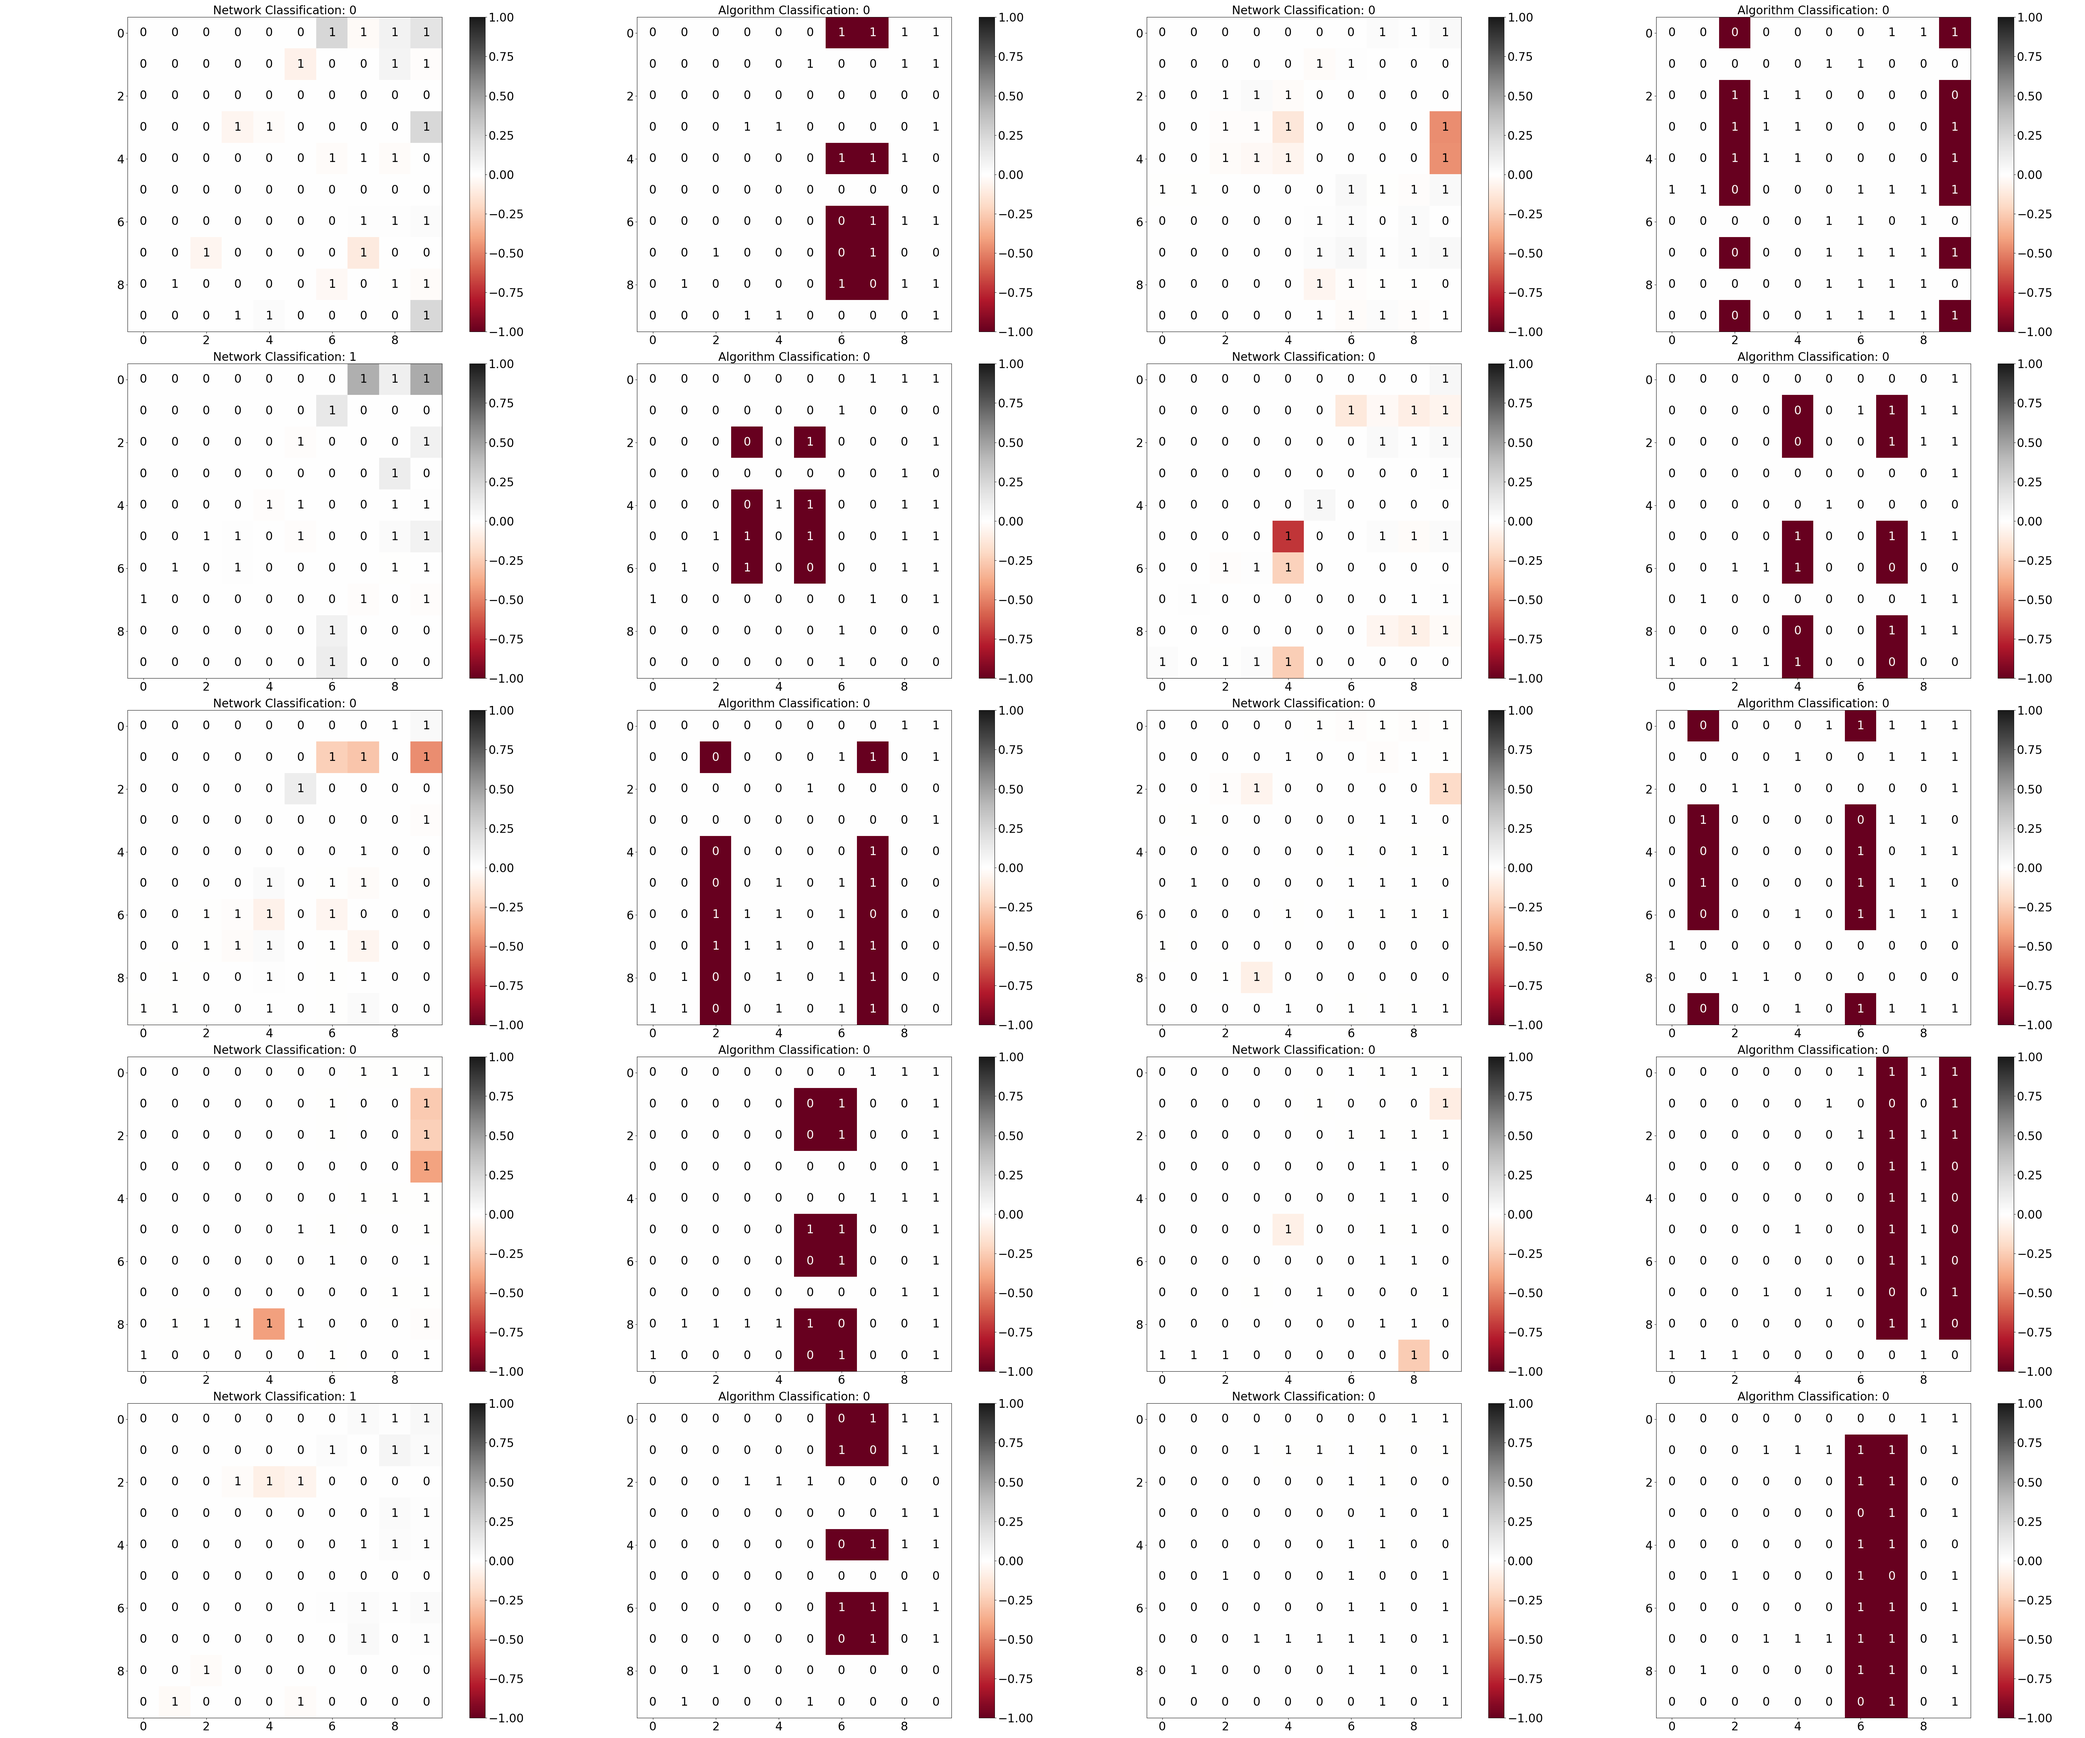
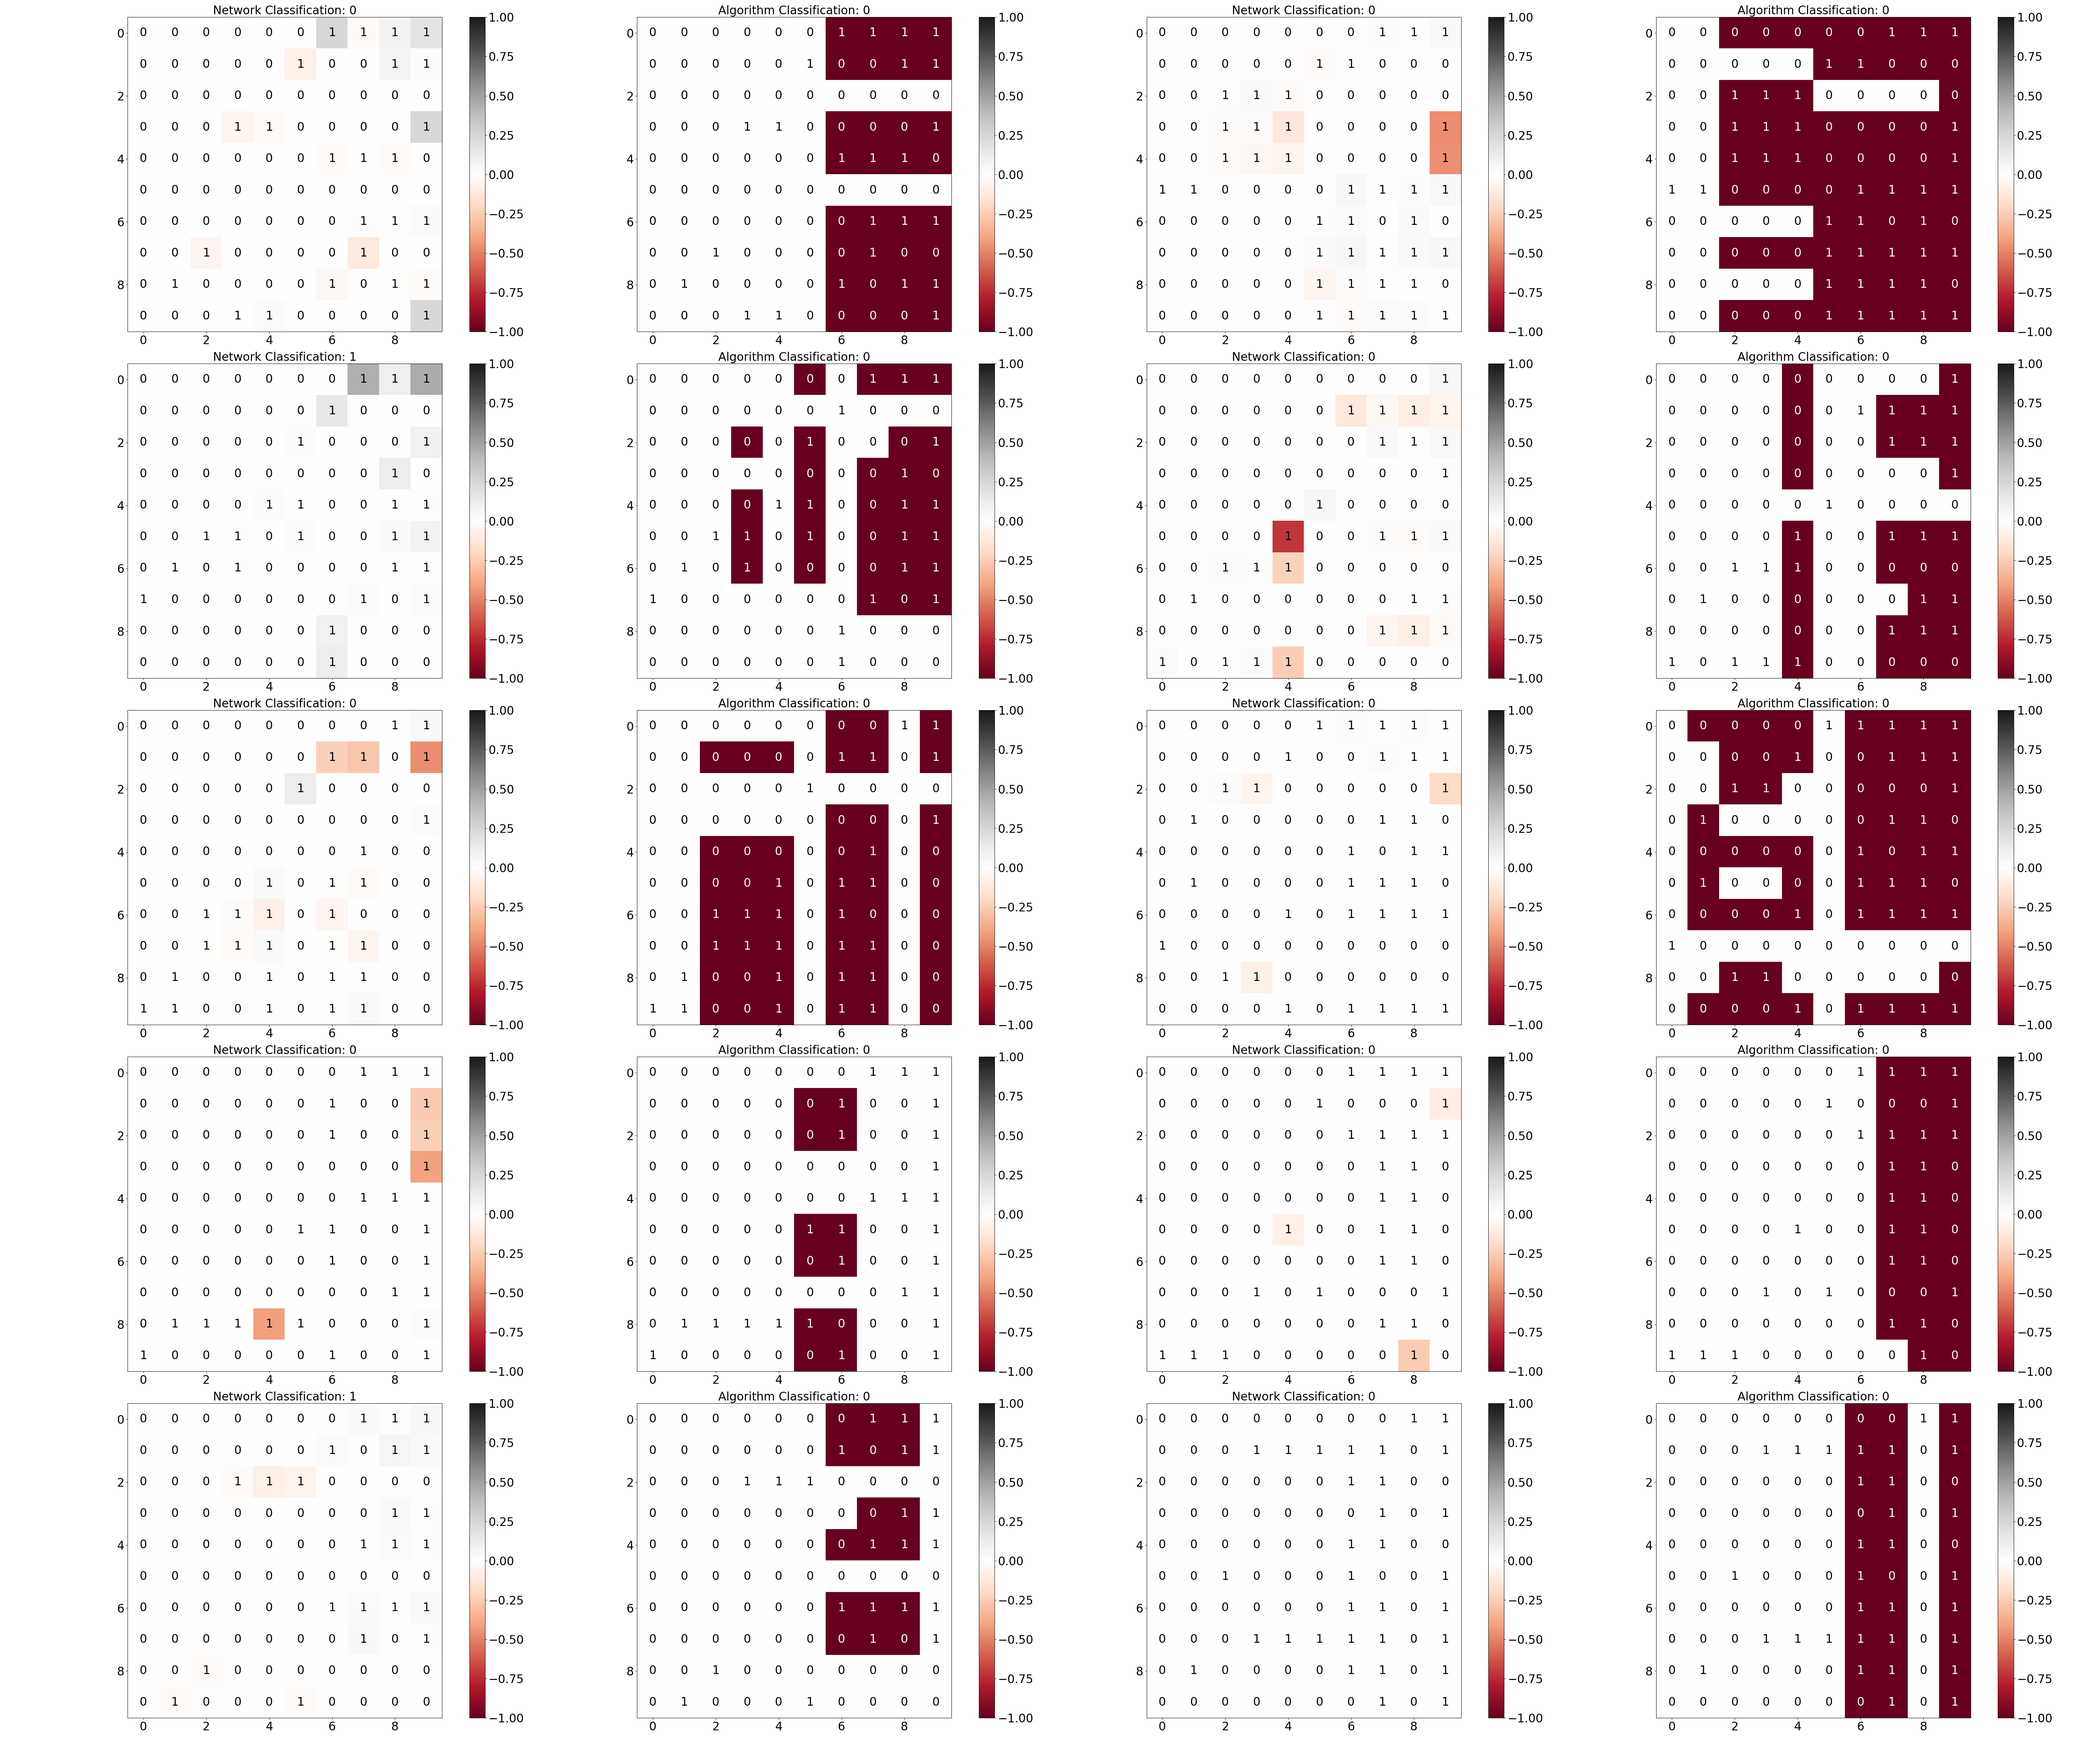
better heatmaps

diff --git a/netz/explainability.py b/netz/explainability.py
@@ -6,6 +6,8 @@ from captum.attr import Occlusion
 import matplotlib.pyplot as plt
 
 def check_inf_sites_arg(m):
+  erg_col = list()
+  erg_row = list()
   for i in range(np.shape(m)[1]):
     for j in range(i+1, np.shape(m)[1]):
       col1 = m[:,i]
@@ -16,12 +18,14 @@ def check_inf_sites_arg(m):
       found_diff = ((len(list(set(indices1) - set(indices2))) != 0) & (len(list(set(indices2) - set(indices1))) != 0))
       found_same = (len(list(set(indices1) & set(indices2))) != 0)
 
-      if found_diff & found_same: return [i, j], (list(set(indices1) - set(indices2)) + list(set(indices2) - set(indices1)) + list(set(indices1) & set(indices2)))
-  return list(), list()
+      if found_diff & found_same: 
+        erg_col.append([i, j])
+        erg_row.append(list(set(indices1) - set(indices2)) + list(set(indices2) - set(indices1)) + list(set(indices1) & set(indices2)))
+  return erg_col, erg_row
 
 netzfc = torch.load('saved_fc_netz.py', map_location=torch.device('cpu'))
 #data = read_data_tens("../data/test_fin_sorted.txt")
-data = read_data_tens("../data/noise/sorted/test_inf_noise_15_sorted.txt")
+data = read_data_tens("../data/noise/sorted/test_fin_noise_15_sorted.txt")
 netzfc.eval()
 #ig = IntegratedGradients(netzfc)
 occ = Occlusion(netzfc)
@@ -31,15 +35,16 @@ class_alg = []
 alg = []
 i = 0
 while i < 10:
-  mat = data[i].unsqueeze(0)
+  mat = data[i+10].unsqueeze(0)
   class_net.append(int(torch.round(netzfc(mat))[0]))
   attr_occ.append(occ.attribute(mat, sliding_window_shapes=(1,1)))
   class_alg.append(int(check_inf_sites(mat[0])))
   a = np.zeros((10,10))
   cols, rows = check_inf_sites_arg(mat[0])
-  for col in cols:
-    for row in rows:
-      a[row, col] = -1
+  for j in range(len(cols)):
+    for col in cols[j]:
+      for row in rows[j]:
+        a[row, col] = -1
   alg.append(a)
   i += 1
 
@@ -60,7 +65,7 @@ for k in range(5):
     cbars[-1].ax.tick_params(labelsize=24)
     axs[k, l*2+1].set_title("Algorithm Classification: "+str(class_alg[inx]), fontsize = 24)
     axs[k, l*2+1].tick_params(axis='both', labelsize=24)
-    mat = data[inx]
+    mat = data[inx+10]
     for i in range(mat.shape[0]):
         for j in range(mat.shape[1]):
             text_color1 = 'white' if np.array(attr_occ[inx][0])[i, j] < (-0.8) else 'black'
@@ -71,5 +76,5 @@ for k in range(5):
 
 
 plt.tight_layout()
-plt.savefig('../results/explainability/heatmaps1_inf.png')
+plt.savefig('../results/explainability/heatmaps2_fin.png')
 plt.show()
